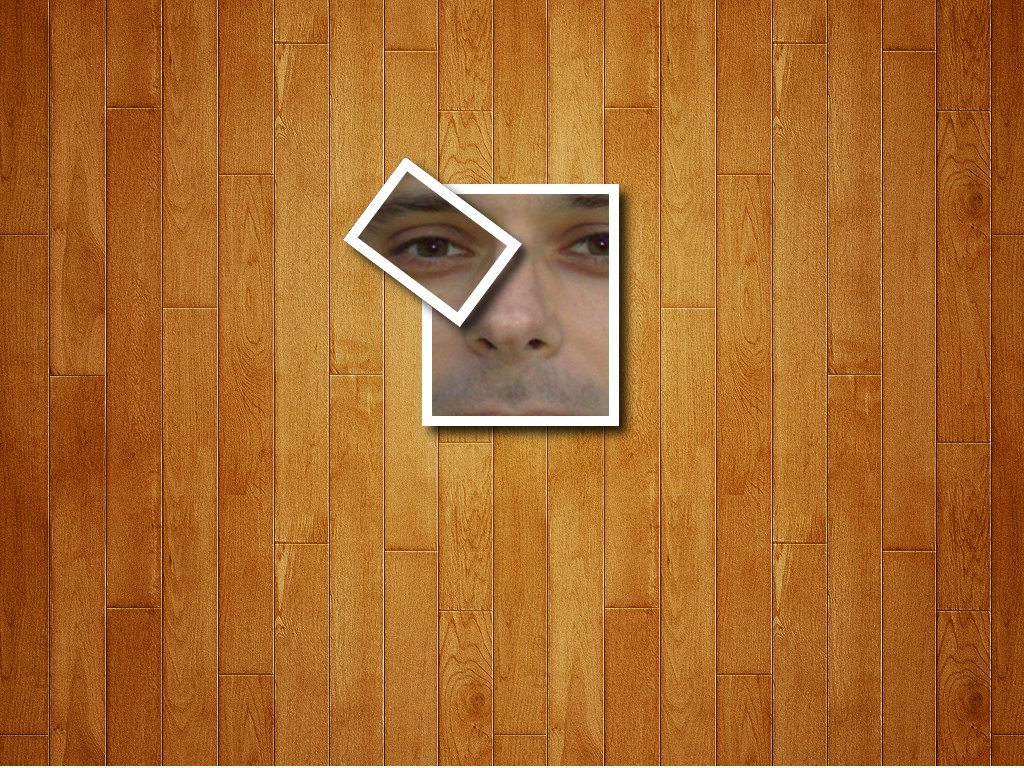
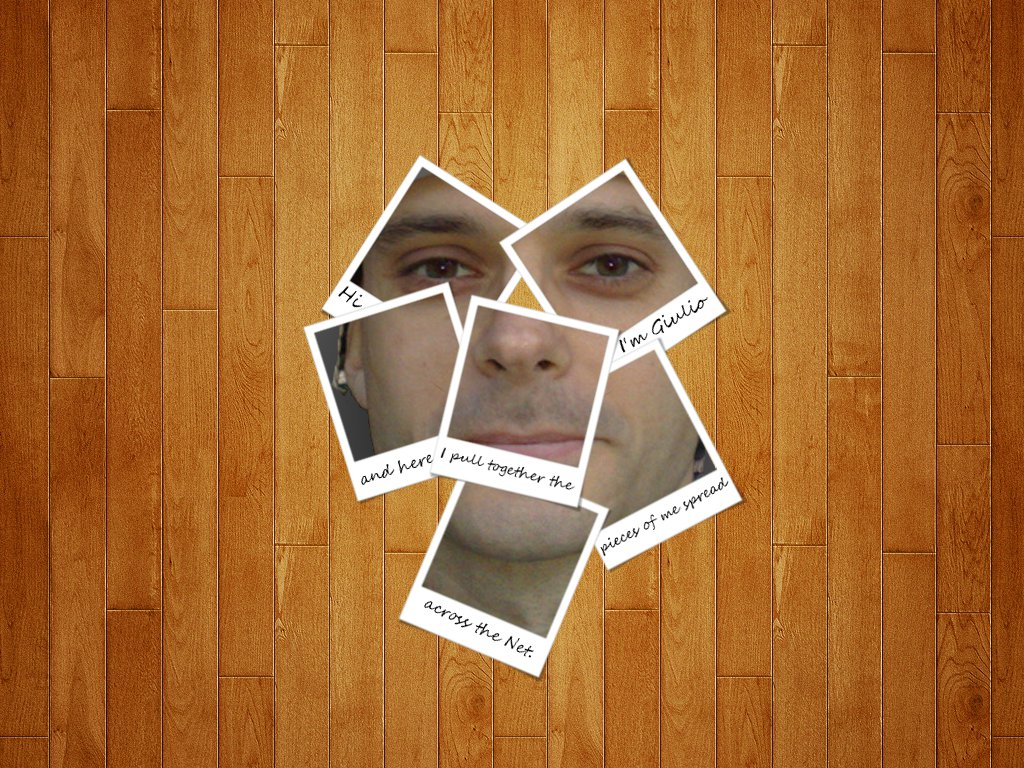
Add final bg pic and remove greeting paragraph

Changed region(s): [[0.0, 0.0, 1.0, 1.0]]

diff --git a/index.html b/index.html
@@ -8,11 +8,6 @@
 	<link rel="stylesheet" media="screen" type="text/css" href="css/lifestream.css">
 </head>
 <body>
-	<p id="greeting">Hi,<br>
-    I'm Giulio and here I pull together all my pieces of me spread
-    across the Net.
-   </p>
-	
 	<ul id="navbar">
 		<li><a href="#about" title="Something about me">About</a></li>
 		<li><a href="#contact" title="Drom me a line">Contact</a></li>

diff --git a/css/style.css b/css/style.css
@@ -30,16 +30,6 @@ a:visited {
 a:active{
 	color: #ffff00;
 }
-#greeting {
-	position: absolute;
-	left: 0;
-	top: 0;
-	width: 200px;
-	background-color: #ffff00;
-	color: #0000ff;
-	font-family: cursive;
-	padding: 0 1em 1em 1em;
-}
 #navbar {
 	position: fixed;
 	left: 0;
